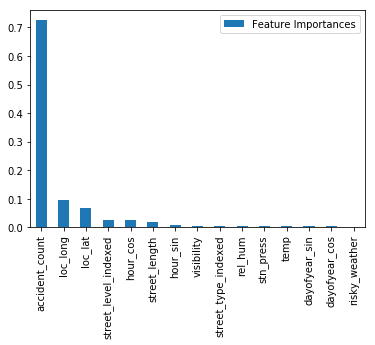
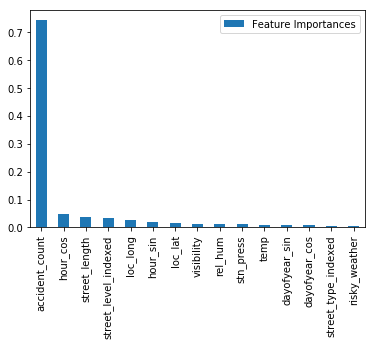
Update results with correction of negative examples with 0.5 sample of 1/1000 dataset

diff --git a/paper/paper.tex b/paper/paper.tex
@@ -80,7 +80,7 @@ We used three public datasets provided by the city of Montreal and the governmen
 \end{itemize}
 
 \subsection{Positive and negative examples generation}
-This machine learning problem can be stated as a binary classification problem, the positive class is the occurrence of an accident and the negative class is the non-occurrence of an accident on a given road at a given date and hour. The vehicle collision dataset contains 150 thousands of collisions, among them $134 489$ contain the date, the hour and the localization of the accident. For each of these accidents, we identify the closest road segment. These pairs of a time and a road segment are used as positive examples. For the negative examples, we generated a random sample of 5 millions combinations of time and road segment which did not appear in the collision dataset.  The generation of these examples together with the join operation with the data from the other datasets made our dataset generation heavy. It resulted in an impractical amount of time and memory space requirements to generate the dataset. Our first implementation was querying the Historical Climate Data API in real-time with a cache mechanism. Our idea was to collect only the weather stations and hours necessary for our sample of negative examples, but it resulted in bad performances. We got a performance increase by first building a Spark data frame with all the Historical Climate Data for weather stations around Montreal and then joining the two datasets. We conducted a detailed analysis of our algorithm to improve its performances. We notably obtained a good performance increase by not persisting intermediary results of the road segment identification for accidents. As opposed to what we initially thought, recomputing these results was faster than writing and reading them in the cache. Finally, the identification of the road segment corresponding to accidents was very memory intensive, we modified this step to be executed by batch of one month.  With these improvements and a few other tricks including partitioning the data frame at key points in our algorithm, we managed to reduce the processing time to a reasonable time. We also used a cluster from “Compute Canada” to take maximum advantage of Apache Spark distributed nature for the generation of examples and the hyper-parameter tuning of our models.
+This machine learning problem can be stated as a binary classification problem, the positive class is the occurrence of an accident and the negative class is the non-occurrence of an accident on a given road at a given date and hour. The vehicle collision dataset contains 150 thousands of collisions, among them $134 489$ contain the date, the hour and the localization of the accident. For each of these accidents, we identify the closest road segment. These pairs of a time and a road segment are used as positive examples. For the negative examples, we generated a random sample of 2 millions combinations of time and road segment which did not appear in the collision dataset.  The generation of these examples together with the join operation with the data from the other datasets made our dataset generation heavy. It resulted in an impractical amount of time and memory space requirements to generate the dataset. Our first implementation was querying the Historical Climate Data API in real-time with a cache mechanism. Our idea was to collect only the weather stations and hours necessary for our sample of negative examples, but it resulted in bad performances. We got a performance increase by first building a Spark data frame with all the Historical Climate Data for weather stations around Montreal and then joining the two datasets. We conducted a detailed analysis of our algorithm to improve its performances. We notably obtained a good performance increase by not persisting intermediary results of the road segment identification for accidents. As opposed to what we initially thought, recomputing these results was faster than writing and reading them in the cache. Finally, the identification of the road segment corresponding to accidents was very memory intensive, we modified this step to be executed by batch of one month.  With these improvements and a few other tricks including partitioning the data frame at key points in our algorithm, we managed to reduce the processing time to a reasonable time. We also used a cluster from “Compute Canada” to take maximum advantage of Apache Spark distributed nature for the generation of examples and the hyper-parameter tuning of our models.
 
 \subsection{Feature Engineering}
 Once we had our pairs of an hour and a road segment for positive and negative examples, we created features from this information. We created three types of features, weather features, features from the road segment and features from the date and time.
@@ -121,11 +121,9 @@ Random forests allow to measure feature importances by computing the total decre
 \end{figure}
 
 \section{Results}
-The training time of the machine learning algorithm is very long due to the size of our dataset and the latest improvement in term of feature engineering have been discovered very late. Therefore, we currently only have the results with the Balanced Random Forest using the latest features. The results from the previous training of other algorithm are not comparable since they do not use the same features. We will add the missing results in later versions of this document. 
+These results have been obtained by training the Balanced Random Forest algorithm on the whole dataset of positive samples, but with only half of the dataset of negative examples we have generated. Therefore the data imbalance is reduced to a factor of 8. To evaluate this model we used a test set containing the last two years of our dataset, the model is trained on the 4 previous years and use only data from these years. For example, the "count\_accident" feature contains only the count of accidents on road segments which occurred from 2012 to 2016.
 
-These results have been obtained by training the Balanced Random Forest algorithm on the whole dataset of positive samples, but with only a fifth of the dataset of negative examples we have generated. Therefore the data imbalance is reduced to a factor of 8. According to our previous experiments, the results are almost the same when using the full dataset of negative examples, sometimes slightly better. To evaluate this model we used a test set containing the last two years of our dataset, the model is trained on the 4 previous years and use only data from these years. For example, the "count\_accident" feature contains only the count of accidents on road segments which occurred from 2012 to 2016.
-
-We obtain an area under the precision-recall curve of 79\% and an area under the ROC curve of 97\%.
+We obtain an area under the precision-recall curve of 54\% and an area under the ROC curve of 89\%.
 This results in the following precision and recall values depending on the chosen probability threshold:
 
 \begin{figure}[htbp]
@@ -134,12 +132,12 @@ This results in the following precision and recall values depending on the chose
 \label{fig}
 \end{figure}
 
-As we can see, with a threshold set to 0.63, we can achieve a recall of 85\% with a precision of 0.52\%. With a threshold of 0.06, the model can actually detect almost all the accidents, 94\% of them, with a precision of 37\%, this corresponds to the high-risk roads and time in which we predict a risk of 37\% of accidents.
+As we can see, with a threshold set to 0.63, we can achieve a recall of 85\% with a precision of 0.29\%. With a threshold of 0.05, the model can actually detect almost all the accidents, 94\% of them, with a precision of 19\%, this corresponds to the high-risk roads and time.
 
 \section{Discussion}
-The overall results are good but mostly rely on the count of previous accidents on the road segment. This is not an issue for accident prediction, but it does not help to understand why these roads are particularly dangerous. Accident prediction is a very hard machine learning problem because even if the risk is very high for an accident to occur, the driver might manage to avoid it in time and avoid the accident although the conditions were almost exactly the same as when an accident occurs. We would need information on the state of the drivers and the state of the vehicle to significantly improve performances. 
+The overall results are good but mostly rely on the count of previous accidents on the road segment. This is not an issue for accident prediction, but it does not help to understand why these roads are particularly dangerous. Accident prediction is a very hard machine learning problem because even if the risk is very high for an accident to occur, and even if an accident almost occur, the by reacting quickly, the driver can manage to avoid it although the conditions were almost exactly the same as when an accident occurs. We would need information on the state of the drivers and the state of the vehicle to significantly improve performances. 
 
-However, we believe these results can be improved even without this important feature by adding more spatial features. We can see that one of the most important variables are the localization of the accident, but the ability to learn a spatial distribution by the random forest algorithm is limited. Therefore we believe providing more context information on where the road is located will greatly help. In another experiment, we have seen the population density and the distance to the closest billboard used as features successfully. However, it will be hard to reach good performances because of the nature of the problem without the count of accidents.
+However, we believe these results can be improved even without this important feature by adding more spatial features. We can see that the most important variables are the features of the road segment. Therefore we believe providing more context information on where the road is located will greatly help. In another experiment, we have seen the population density and the distance to the closest billboard used as features successfully. However, even with more features and more data, it will be hard to reach very good performances because of the nature of the problem.
 
 \subsection{Future work}
 We believe better performances could be reached by adding more features from other datasets. For the city of Montreal, we identified two particularly interesting datasets: a dataset with the location and dates of construction work on roads, and a dataset with the population density. These datasets might not be as easily available for over areas, but for Montreal, it could improve performances. Also, the solar elevation and solar azimuth could easily be added without the need for another dataset. These features have been used successfully in road accident prediction in previous experiments.
